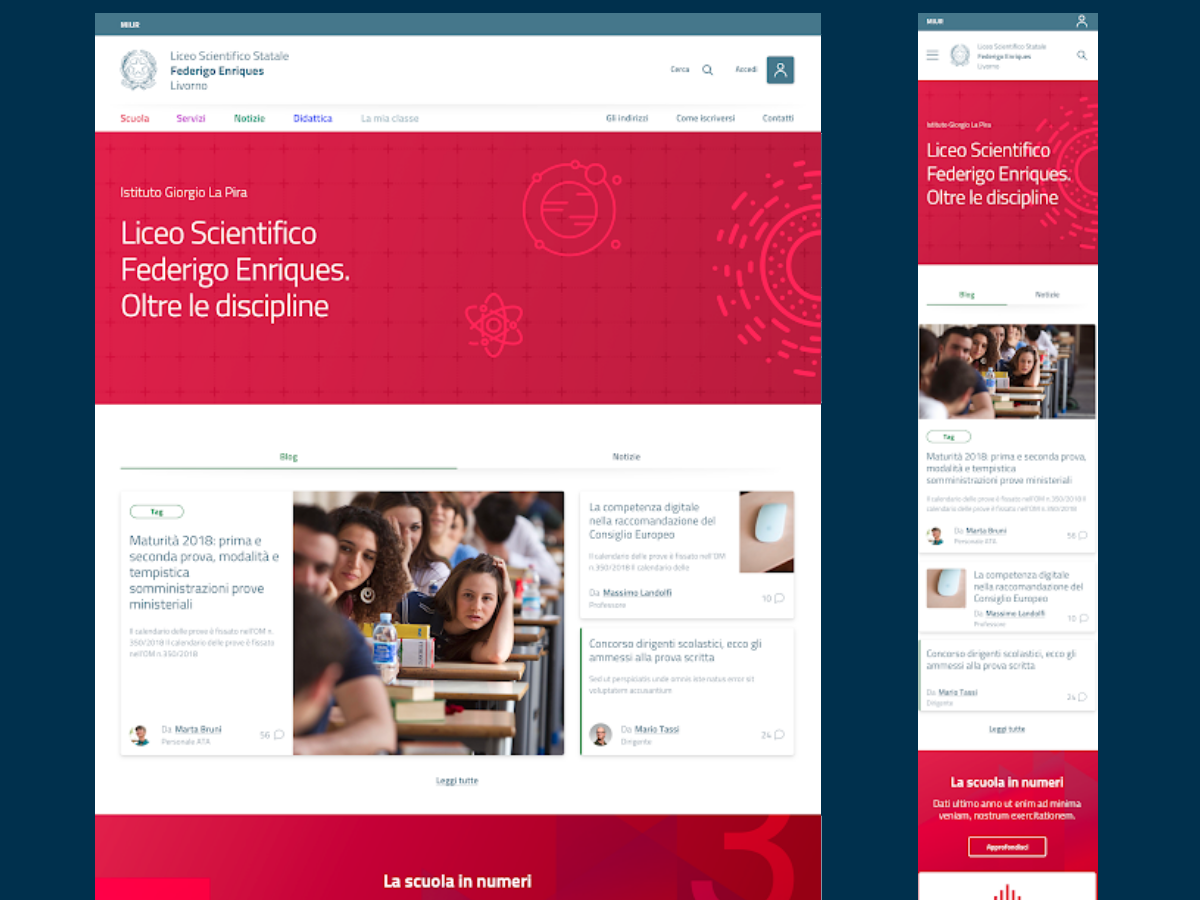
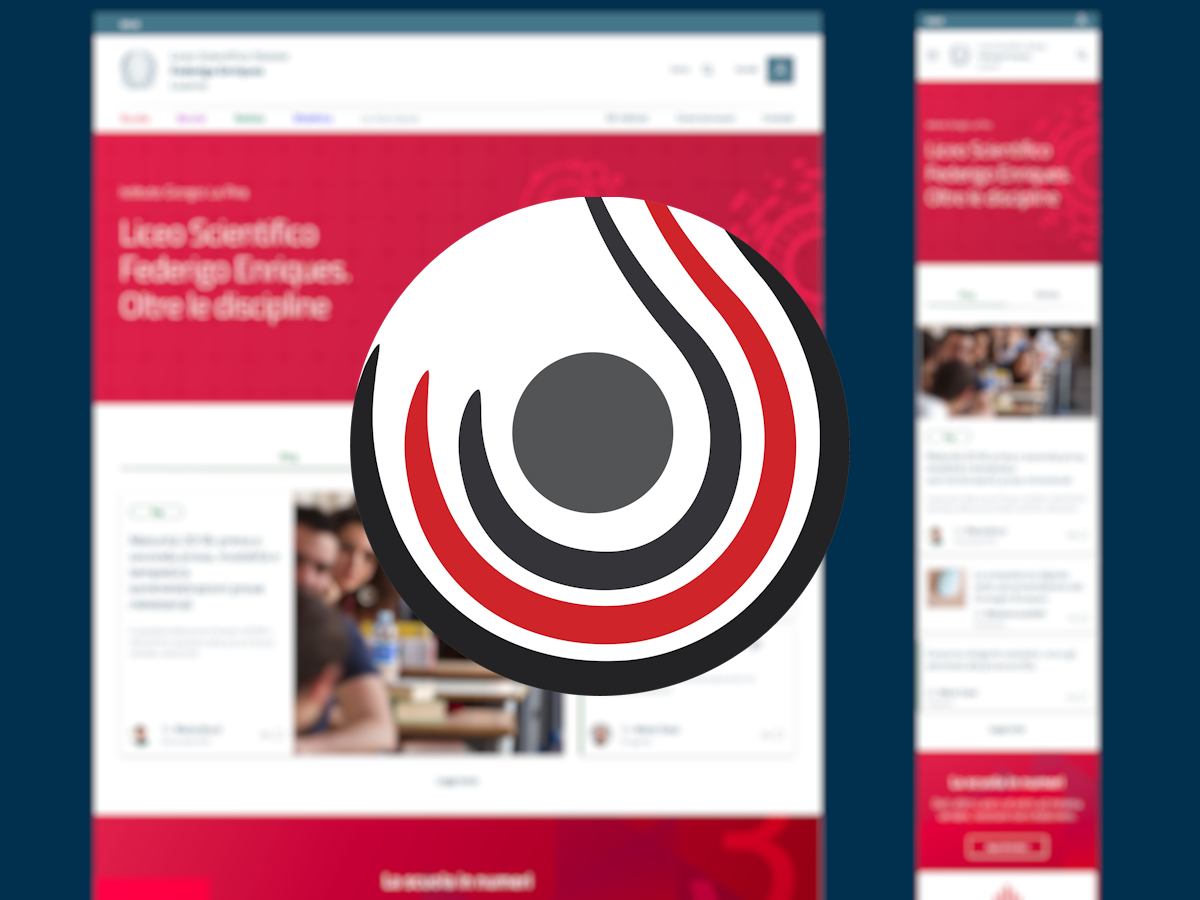
Inserimento informazioni legate al fork

diff --git a/style.css b/style.css
@@ -1,10 +1,11 @@
 /*!
-Theme Name: Design Scuole Italia
-Author: Dipartimento per la trasformazione digitale - Presidenza del Consiglio dei Ministri
-Description: Design Scuole Italia è il tema di WordPress per i siti delle Scuole Italiane. Rispetta le linee guida di design dell’Agenzia per l’Italia digitale rilasciare dal Team per la Trasformazione Digitale. Utilizza Bootstrap Italia. Basato sul precedente lavoro di Marco Buttarini.
-Version: 2.3.3
+Theme Name: Design Scuole Italia - Fork Robyone
+Theme URI: https://github.com/sviluppoRobyone/design-scuole-wordpress-theme
+Author: Dipartimento per la trasformazione digitale - Presidenza del Consiglio dei Ministri e Robyone s.r.l.
+Description: Design Scuole Italia è il tema di WordPress per i siti delle Scuole Italiane. Rispetta le linee guida di design dell’Agenzia per l’Italia digitale rilasciare dal Team per la Trasformazione Digitale. Utilizza Bootstrap Italia. Basato sul precedente lavoro di Marco Buttarini. <strong>In questa specifica versione fork Robyone ha applicato modifiche migliorative richieste dai clienti e dagli asseveratori / consulenti dei progetti PNRR 1.4.1. Robyone si impegna a proporre i cambiamenti per applicarli al tema nazionale e si impegna ad allineare ai nuovi aggiornamenti la fork. Codice sorgente pubblicato con medesima licenza del repository nazionale su <a href="https://github.com/sviluppoRobyone/design-scuole-wordpress-theme">https://github.com/sviluppoRobyone/design-scuole-wordpress-theme</a></strong>.
+Version: 2.3.3.20230713
 License: AGPL 3.0 or later
-Text Domain: design_scuole_italia
+Text Domain: design_scuole_italia_robyone
 */
 
 /** immagini e allineamenti wp **/

diff --git a/README.md b/README.md
@@ -1,10 +1,14 @@
-# ![developers.italia](https://avatars1.githubusercontent.com/u/15377824?s=36&v=4 "developers.italia") Design Scuole Italia
+# ![developers.italia](https://avatars1.githubusercontent.com/u/15377824?s=36&v=4 "developers.italia") Design Scuole Italia - Fork Robyone
 [![Join the #design siti scuole channel](https://img.shields.io/badge/Slack%20channel-%23design_siti_scuole-blue.svg)](https://developersitalia.slack.com/messages/design-siti-scuole/)
 
 ## **Un sito per le scuole italiane**
 ### I primi passi con il tema Wordpress (2.3.3)
 
 **Design Scuole Italia** è il tema WordPress che permette di aderire al [modello di sito istituzionale delle scuole](https://designers.italia.it/modelli/scuole/), progettato dal Dipartimento per la trasformazione digitale in collaborazione con il Ministero dell’Istruzione.
+
+In questa specifica versione fork Robyone ha applicato modifiche migliorative richieste dai clienti e dagli asseveratori / consulenti dei progetti PNRR 1.4.1. Robyone si impegna a proporre i cambiamenti per applicarli al tema nazionale e si impegna ad allineare ai nuovi aggiornamenti la fork.
+
+Codice sorgente pubblicato con medesima licenza del repository nazionale.
 
 ## **Installazione e supporto**
 ### **Come scaricare il tema**
@@ -44,19 +48,42 @@ Sul [canale Slack #design-siti-scuole](http://developersitalia.slack.com/message
 
 ## **Indice**
 
-- [Cos'è](#cosè)
-- [Cosa fa](#cosa-fa)
-- [La cura verso i contenuti](#la-cura-verso-i-contenuti)
-- [Da dove iniziare](#da-dove-iniziare)
-- [Riscrivere o importare i contenuti del vecchio sito](#riscrivere-o-importare-i-contenuti-del-vecchio-sito)
-- [Relazioni tra i contenuti](#relazioni-tra-i-contenuti)
-- [I diversi content type](#i-diversi-content-type)
-- [Personalizzazione](#personalizzazione)
-- [La community di riferimento](#la-community-di-riferimento)
-- [FAQ](#faq)
-- [Licenze software dei componenti di terze parti](#licenze-software-dei-componenti-di-terze-parti)
-- [Segnalazione bug](#segnalazione-bug)
-- [Come contribuire](#come-contribuire)
+- [ Design Scuole Italia - Fork Robyone](#-design-scuole-italia---fork-robyone)
+  - [**Un sito per le scuole italiane**](#un-sito-per-le-scuole-italiane)
+    - [I primi passi con il tema Wordpress (2.3.3)](#i-primi-passi-con-il-tema-wordpress-233)
+  - [**Installazione e supporto**](#installazione-e-supporto)
+    - [**Come scaricare il tema**](#come-scaricare-il-tema)
+    - [Come aggiornare il tema](#come-aggiornare-il-tema)
+    - [Dipendenze](#dipendenze)
+    - [**Supporto tecnico ed editoriale**](#supporto-tecnico-ed-editoriale)
+  - [**Indice**](#indice)
+    - [**Cos'è**](#cosè)
+    - [**Cosa fa**](#cosa-fa)
+    - [**La cura verso i contenuti**](#la-cura-verso-i-contenuti)
+    - [**Da dove iniziare**](#da-dove-iniziare)
+      - [Editor Gutenberg](#editor-gutenberg)
+    - [**Riscrivere o importare i contenuti del vecchio sito**](#riscrivere-o-importare-i-contenuti-del-vecchio-sito)
+    - [**Relazioni tra i contenuti**](#relazioni-tra-i-contenuti)
+    - [**I diversi _content type_**](#i-diversi-content-type)
+      - [I luoghi](#i-luoghi)
+      - [Le strutture organizzative](#le-strutture-organizzative)
+      - [I servizi](#i-servizi)
+      - [Le persone](#le-persone)
+      - [I percorsi e gli indirizzi di studio](#i-percorsi-e-gli-indirizzi-di-studio)
+      - [I documenti](#i-documenti)
+      - [I progetti](#i-progetti)
+      - [Le schede didattiche](#le-schede-didattiche)
+      - [Le notizie](#le-notizie)
+      - [Eventi e calendario eventi](#eventi-e-calendario-eventi)
+      - [Le circolari](#le-circolari)
+    - [**Personalizzazione**](#personalizzazione)
+    - [**La community di riferimento**](#la-community-di-riferimento)
+    - [**F.A.Q**](#faq)
+      - [**Bootstrap Italia**](#bootstrap-italia)
+  - [Licenze software dei componenti di terze parti](#licenze-software-dei-componenti-di-terze-parti)
+    - [Componenti distribuiti con i template](#componenti-distribuiti-con-i-template)
+  - [Segnalazione bug](#segnalazione-bug)
+  - [Come contribuire](#come-contribuire)
 
 ### **Cos'è**
 Il tema Design Scuole Italia è un’applicazione di WordPress, il sistema di gestione di contenuti (CMS) che consente di creare un sito web. 
